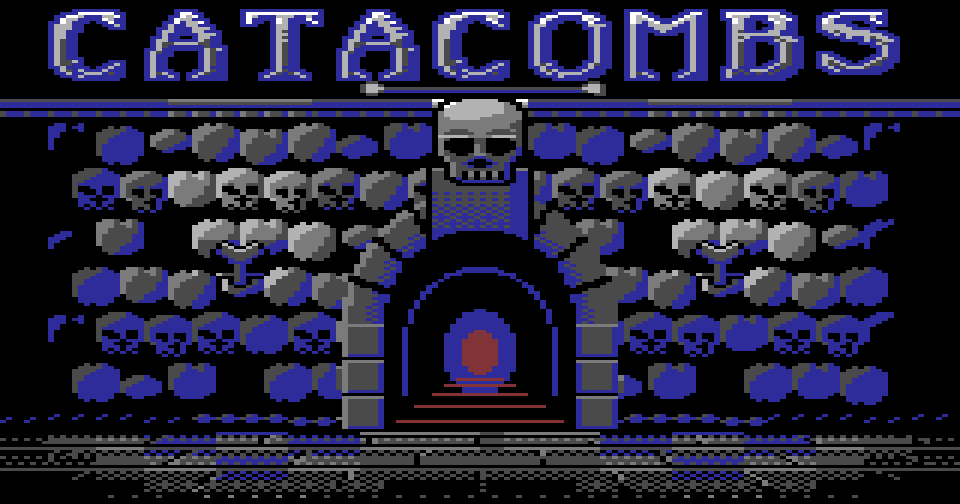
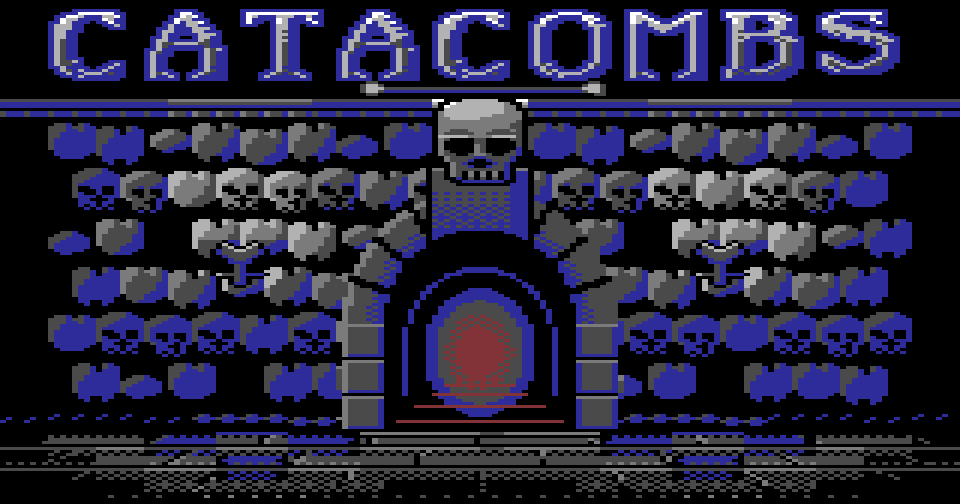
Title/flow round 4: sprite colours fade with the screen and darken chains end in four steps; victory wall beyond the gate goes cold, wider glow bands; checker floor shading with feathered pools; notched bone ends, no clipped bones at the edges; fallen frame redrawn (head, neck gap, flung arm)

diff --git a/Catacombs/art/title_art.py b/Catacombs/art/title_art.py
@@ -66,8 +66,10 @@ GO_BRIGHT = {v: k for k, v in GO_DIM.items()}
 # Victory: the gate (and only the gate's columns) fills with daylight.
 VICTORY = {BLUE: BROWN, GREY1: ORANGE, GREY2: LRED, GREY3: YELLOW, VIOLET: WHITE}
 # Fade to black, applied repeatedly; works on any screen (the game's too).
-DARKEN = {WHITE: GREY3, GREY3: GREY2, GREY2: GREY1, GREY1: BLUE, BLUE: BLACK,
-          YELLOW: LRED, LRED: ORANGE, ORANGE: BROWN, BROWN: BLACK, RED: BLACK,
+# Every chain reaches black in at most four steps, so the fifth pass shows a
+# whole black screen before the next one comes up.
+DARKEN = {WHITE: GREY2, GREY3: GREY1, GREY2: GREY1, GREY1: BLUE, BLUE: BLACK,
+          YELLOW: ORANGE, LRED: ORANGE, ORANGE: BROWN, BROWN: BLACK, RED: BLACK,
           CYAN: LBLUE, LBLUE: BLUE, VIOLET: BLUE, LGREEN: GREEN, GREEN: GREY1}
 # The logo's glint: a column of the gold one step brighter.
 GLINT = {YELLOW: WHITE, ORANGE: YELLOW, BROWN: ORANGE}
@@ -158,9 +160,9 @@ BAYER = [[0, 8, 2, 10], [12, 4, 14, 6], [3, 11, 1, 9], [15, 7, 13, 5]]
 # ---------------------------------------------------------------------------
 # Wall tiles, 8x16 (16x16 hi-res pixels), lit from the top left
 # ---------------------------------------------------------------------------
-FEMUR = ["..a.ab..",
-         ".aaaabb.",
-         "aaaabbbc",
+FEMUR = [".aa..ab.",
+         "aaab.abb",
+         "aaab.bbc",
          "aaabbbbc",
          "aabbbbbc",
          "aabbbbcc",
@@ -169,8 +171,8 @@ FEMUR = ["..a.ab..",
          "abbbbccc",
          "abbbbccc",
          ".bbbccc.",
-         ".bbbccc.",
-         "..b.cc..",
+         ".bb..cc.",
+         "..b..c..",
          "........"]
 CONDYLE = [".aab.ab.",
            "aaabaabc",
@@ -277,9 +279,9 @@ def wall():
             name = seq[(t + n * 3) % len(seq)]
             lv = light(c * 4 + 4, r * 8 + 8) - n * 0.12
             edge = min(c + 1, COLS - 1 - c)     # cells from the nearer screen edge
-            lv = min(lv, (edge - 1) * 0.7) if edge < 5 else max(lv, 2.0)
+            lv = (0.0 if edge < 3 else 2.0) if edge < 5 else max(lv, 2.0)
             set_pal(c, r, c + 1, r + 1, level_pal(lv))
-            if TILES[name] is not None:
+            if TILES[name] is not None and 0 < c and c + 1 < COLS - 1:
                 stamp(c * 4, r * 8, TILES[name])
     # the foot of the wall: rubble in the shadow
     for t in range(COLS // 2):
@@ -341,11 +343,18 @@ def floor():
                 elif p_ < 0.34:
                     v = 2 if (x + y) & 1 else 0          # the far third: dark
                 elif p_ < 0.67:
-                    v = 2 if ((x + y) & 1 or (y & 1)) else 1
+                    v = 2
                 else:
                     v = 1 if (x + y) & 1 else 2           # towards the lit front edge
                 if band == 2 and v and BAYER[y & 3][x & 3] < (y - 158) * 2:
                     v = 0                                 # the front course melts into black
+                # a warm pool's edge dithers away instead of ending on the cell edge
+                c, r = x // 4, y // 8
+                if v and pal[r][c] in (FLOOR_LEVELS[5], FLOOR_LEVELS[4]):
+                    for nc, d in ((c - 1, x & 3), (c + 1, 3 - (x & 3))):
+                        if 0 <= nc < COLS and pal[r][nc] not in (FLOOR_LEVELS[5], FLOOR_LEVELS[4]):
+                            if d == 0 or (d == 1 and (x + y) & 1):
+                                v = 0
             put(x, y, v)
     # the threshold in front of the gate
     for y in (144, 145):
@@ -383,9 +392,13 @@ def void(x, y):
         if y == ty and abs(dx) < half:
             return 3                                      # a tread's lit edge
     d = math.hypot(dx * 0.8, (y - 117) * 0.7)
-    if d < 5:
+    if d < 6:
         return 3
-    if d < 10:
+    if d < 9:
+        return 3 if (x + y) & 1 else 1
+    if d < 12:
+        return 1
+    if d < 15:
         return 2
     return 0
 

diff --git a/Catacombs/TitleScreen.cs b/Catacombs/TitleScreen.cs
@@ -148,6 +148,9 @@ static class TitleScreen
             C64.FillMemory(SpriteEnable, 0x41, 1);   // the torches have burnt out
             C64.Screen.RemapCellColors(0, 0, 12, 4, C64Address.FromLabel("pal_Bright"));   // the logo in full gold
             C64.Screen.RemapCellColors(28, 0, 12, 4, C64Address.FromLabel("pal_Bright"));
+            // with the torches out, the wall beyond the gate's light goes cold
+            C64.Screen.RemapCellColors(0, 4, 12, 17, C64Address.FromLabel("pal_GoDim"));
+            C64.Screen.RemapCellColors(28, 4, 12, 17, C64Address.FromLabel("pal_GoDim"));
             C64.Screen.DrawText(7, PromptRow, "YOU ESCAPED THE CATACOMBS", 0x70);
             C64.Screen.DrawText(9, InfoRow, "ALL 3 RELICS RECOVERED", 0xF0);
         }
@@ -245,6 +248,7 @@ static class TitleScreen
     }
 
     // Any screen to black, the game's rooms included: five darkening passes
+    // (the last shows a whole black screen), sprite colours with them
     // (the game keeps border and background black). Leaves the display blanked, with an
     // empty bitmap, no split and no sprites: whatever comes next draws
     // unseen and shows itself.
@@ -258,6 +262,11 @@ static class TitleScreen
             for (tick_ = 0; tick_ < frames; tick_++)
                 C64.Screen.WaitForVBlank();
             C64.Screen.RemapCellColors(0, 0, 40, 25, table_);
+            // the sprites' colours ($D025-$D02E) go dark with the screen
+            for (phase_ = 0x25; phase_ < 0x2F; phase_++)
+                C64.FillMemory(0xCFFFUL + phase_, C64.GetMemory(table_, C64.GetMemory(0xD000UL, phase_) & 15), 1);
+            if (column_ == 3)
+                C64.FillMemory(SpriteEnable, 0, 1);   // nothing left lit for the last, black step
         }
         C64.FillMemory(SpriteEnable, 0, 1);
         C64.Screen.BeginUpdate();

diff --git a/Catacombs/art/characters_frames.py b/Catacombs/art/characters_frames.py
@@ -241,7 +241,7 @@ for i in range(4):
     MC["p_leg_right%d" % i] = _S[i]
     MC["p_leg_left%d" % i] = mirror(_S[i])
 
-# Slain: a heap of cloak, the torch gone out beside it.
+# Slain: lying on his front, arm flung out, head (lit by the dying torch) to the right.
 MC["p_fallen"] = [
     "............",
     "............",
@@ -251,15 +251,15 @@ MC["p_fallen"] = [
     "............",
     "............",
     "............",
-    "....KKKK....",
-    "..KKCCCCKK..",
-    ".KCCCCCCCCK.",
-    "KCCKCCCCCCCK",
-    "KCOKCCCKCCCK",
-    "KOOKCCKCCCCK",
-    ".KKKKKKKKKK.",
-    "K.K.K.K.K.K.",
-    ".K.K.K.K.K.K",
+    ".........KK.",
+    "KK......KOOK",
+    "CCKKKKKKKOOK",
+    ".KCCCCCCKKOK",
+    ".KCCCKCCCKK.",
+    "KCCCCCCCCK..",
+    ".KKKKKKKK...",
+    "K.K.K.K.K...",
+    ".K.K.K.K....",
     "............",
     "............",
     "............",
